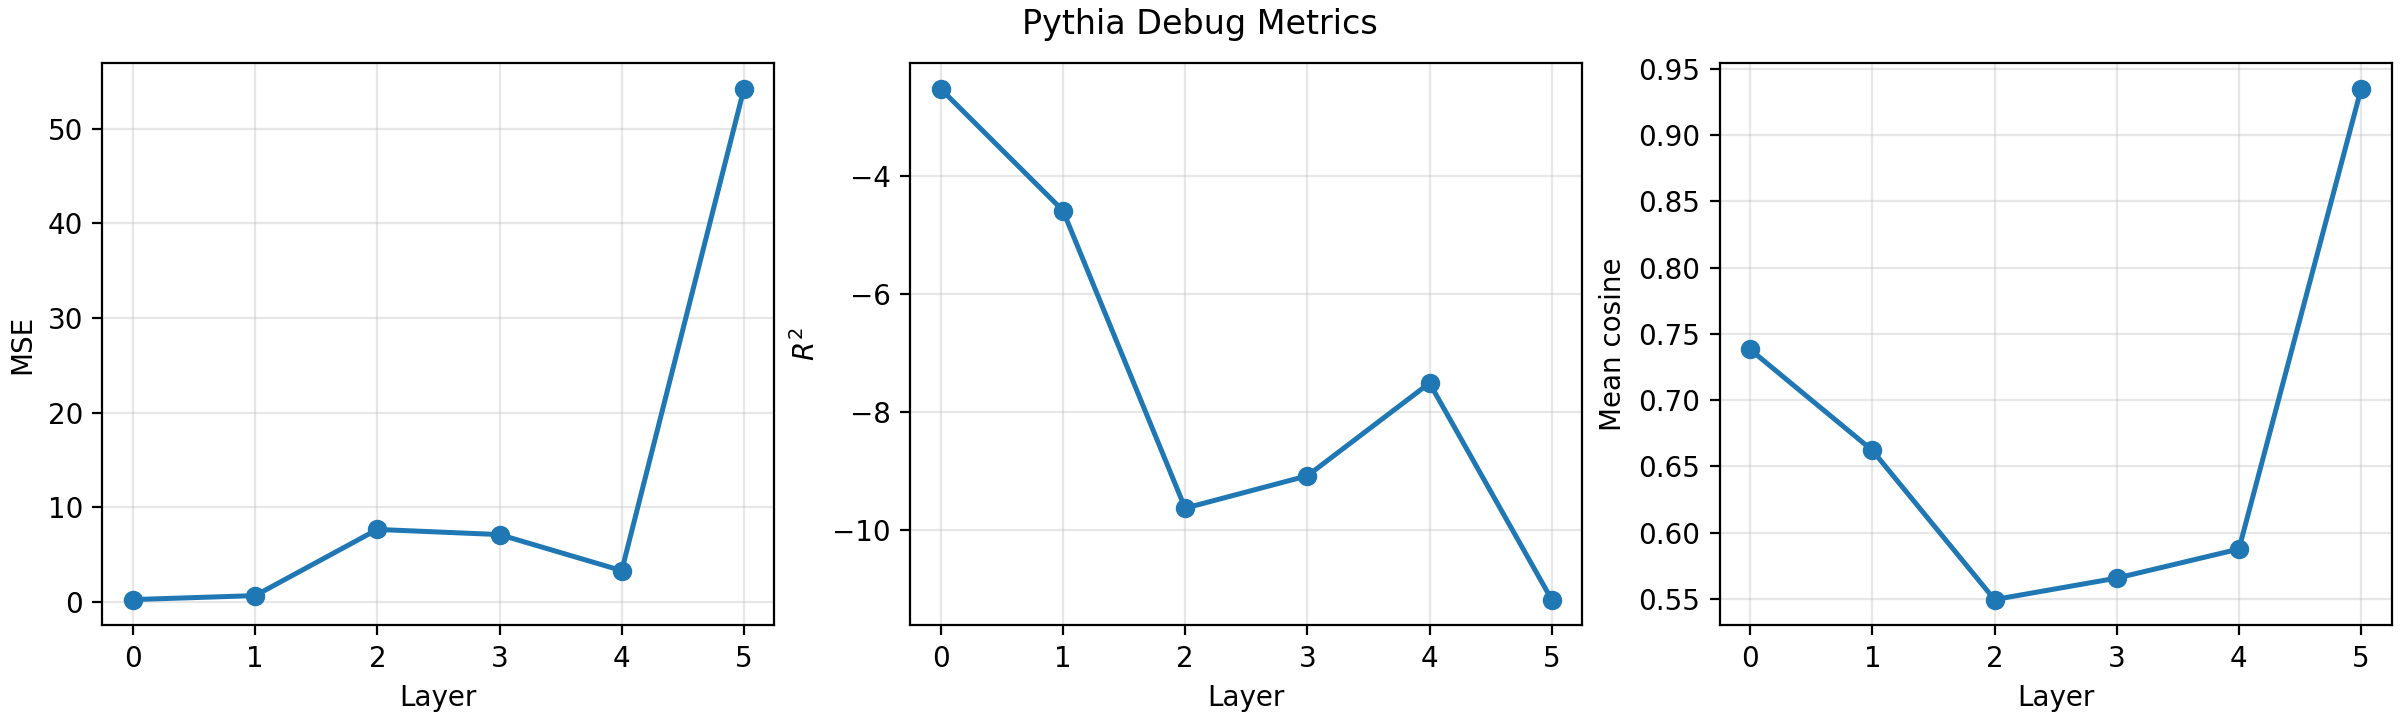
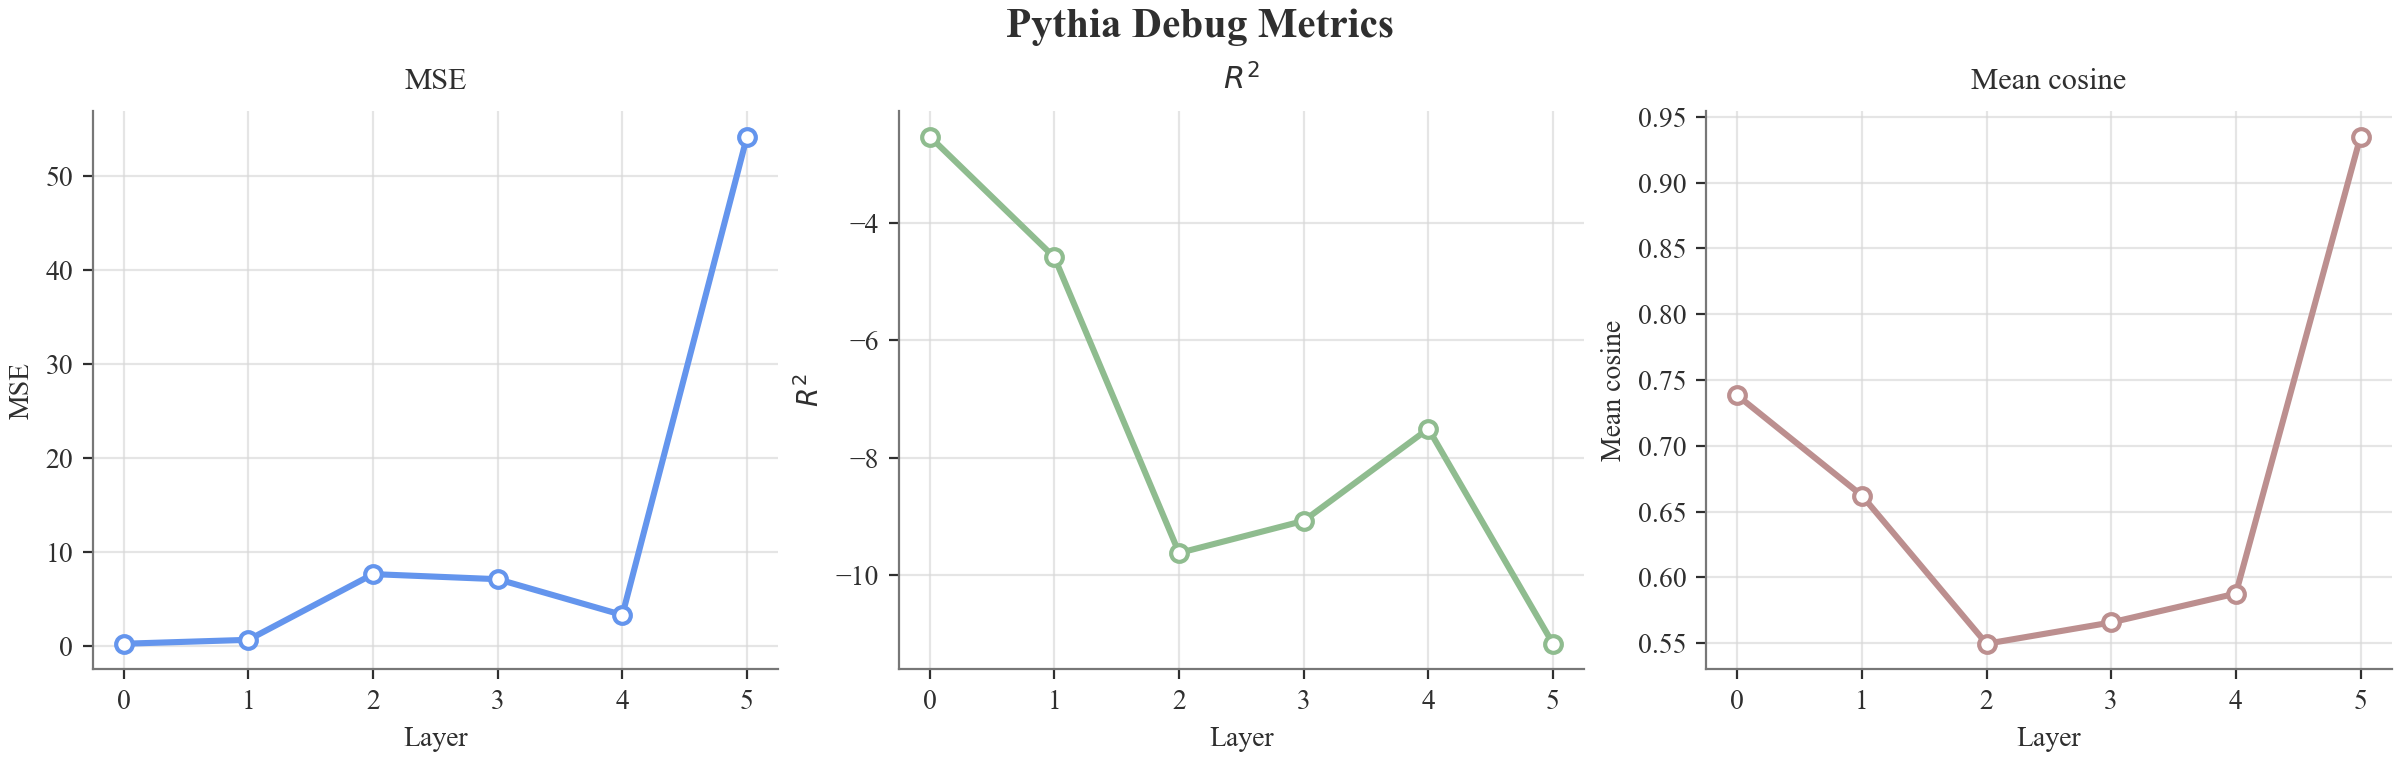
updated plot formatting

diff --git a/src/token_vs_context_llms/plotting.py b/src/token_vs_context_llms/plotting.py
@@ -4,10 +4,14 @@ from pathlib import Path
 from typing import Any
 
 METRIC_SPECS = (
-    ("mean_squared_error", "MSE"),
-    ("r2_score", r"$R^2$"),
-    ("mean_cosine_similarity", "Mean cosine"),
+    ("mean_squared_error", "MSE", "cornflowerblue"),
+    ("r2_score", r"$R^2$", "darkseagreen"),
+    ("mean_cosine_similarity", "Mean cosine", "rosybrown"),
 )
+
+TEXT_COLOR = "#2f2f2f"
+GRID_COLOR = "#d8d8d8"
+SPINE_COLOR = "#777777"
 
 
 def write_layerwise_metrics_plot(
@@ -31,16 +35,45 @@ def write_layerwise_metrics_plot(
     matplotlib.use("Agg")
     import matplotlib.pyplot as plt
 
-    fig, axes = plt.subplots(1, 3, figsize=(12, 3.6), constrained_layout=True)
-    fig.suptitle(title)
+    plt.rcParams.update(
+        {
+            "font.family": "serif",
+            "font.serif": ["Times New Roman", "Times", "DejaVu Serif"],
+            "axes.edgecolor": SPINE_COLOR,
+            "axes.labelcolor": TEXT_COLOR,
+            "axes.titlecolor": TEXT_COLOR,
+            "xtick.color": TEXT_COLOR,
+            "ytick.color": TEXT_COLOR,
+            "text.color": TEXT_COLOR,
+        }
+    )
 
-    for axis, (metric_name, label) in zip(axes, METRIC_SPECS, strict=True):
+    fig, axes = plt.subplots(1, 3, figsize=(12, 3.8), constrained_layout=True)
+    fig.patch.set_facecolor("white")
+    fig.suptitle(title, fontsize=15, fontweight="semibold")
+
+    for axis, (metric_name, label, color) in zip(axes, METRIC_SPECS, strict=True):
         values = [_require_float(row, metric_name) for row in sorted_metrics]
-        axis.plot(layers, values, marker="o", linewidth=1.8)
+        axis.plot(
+            layers,
+            values,
+            color=color,
+            marker="o",
+            markerfacecolor="white",
+            markeredgecolor=color,
+            markeredgewidth=1.5,
+            linewidth=2.2,
+        )
         axis.set_xlabel("Layer")
         axis.set_ylabel(label)
-        axis.grid(True, alpha=0.3)
+        axis.set_title(label, fontsize=11, pad=8)
+        axis.grid(True, color=GRID_COLOR, linewidth=0.8, alpha=0.65)
         axis.set_xticks(layers)
+        axis.set_axisbelow(True)
+        axis.spines["top"].set_visible(False)
+        axis.spines["right"].set_visible(False)
+        axis.spines["left"].set_color(SPINE_COLOR)
+        axis.spines["bottom"].set_color(SPINE_COLOR)
 
     fig.savefig(target, dpi=200)
     plt.close(fig)